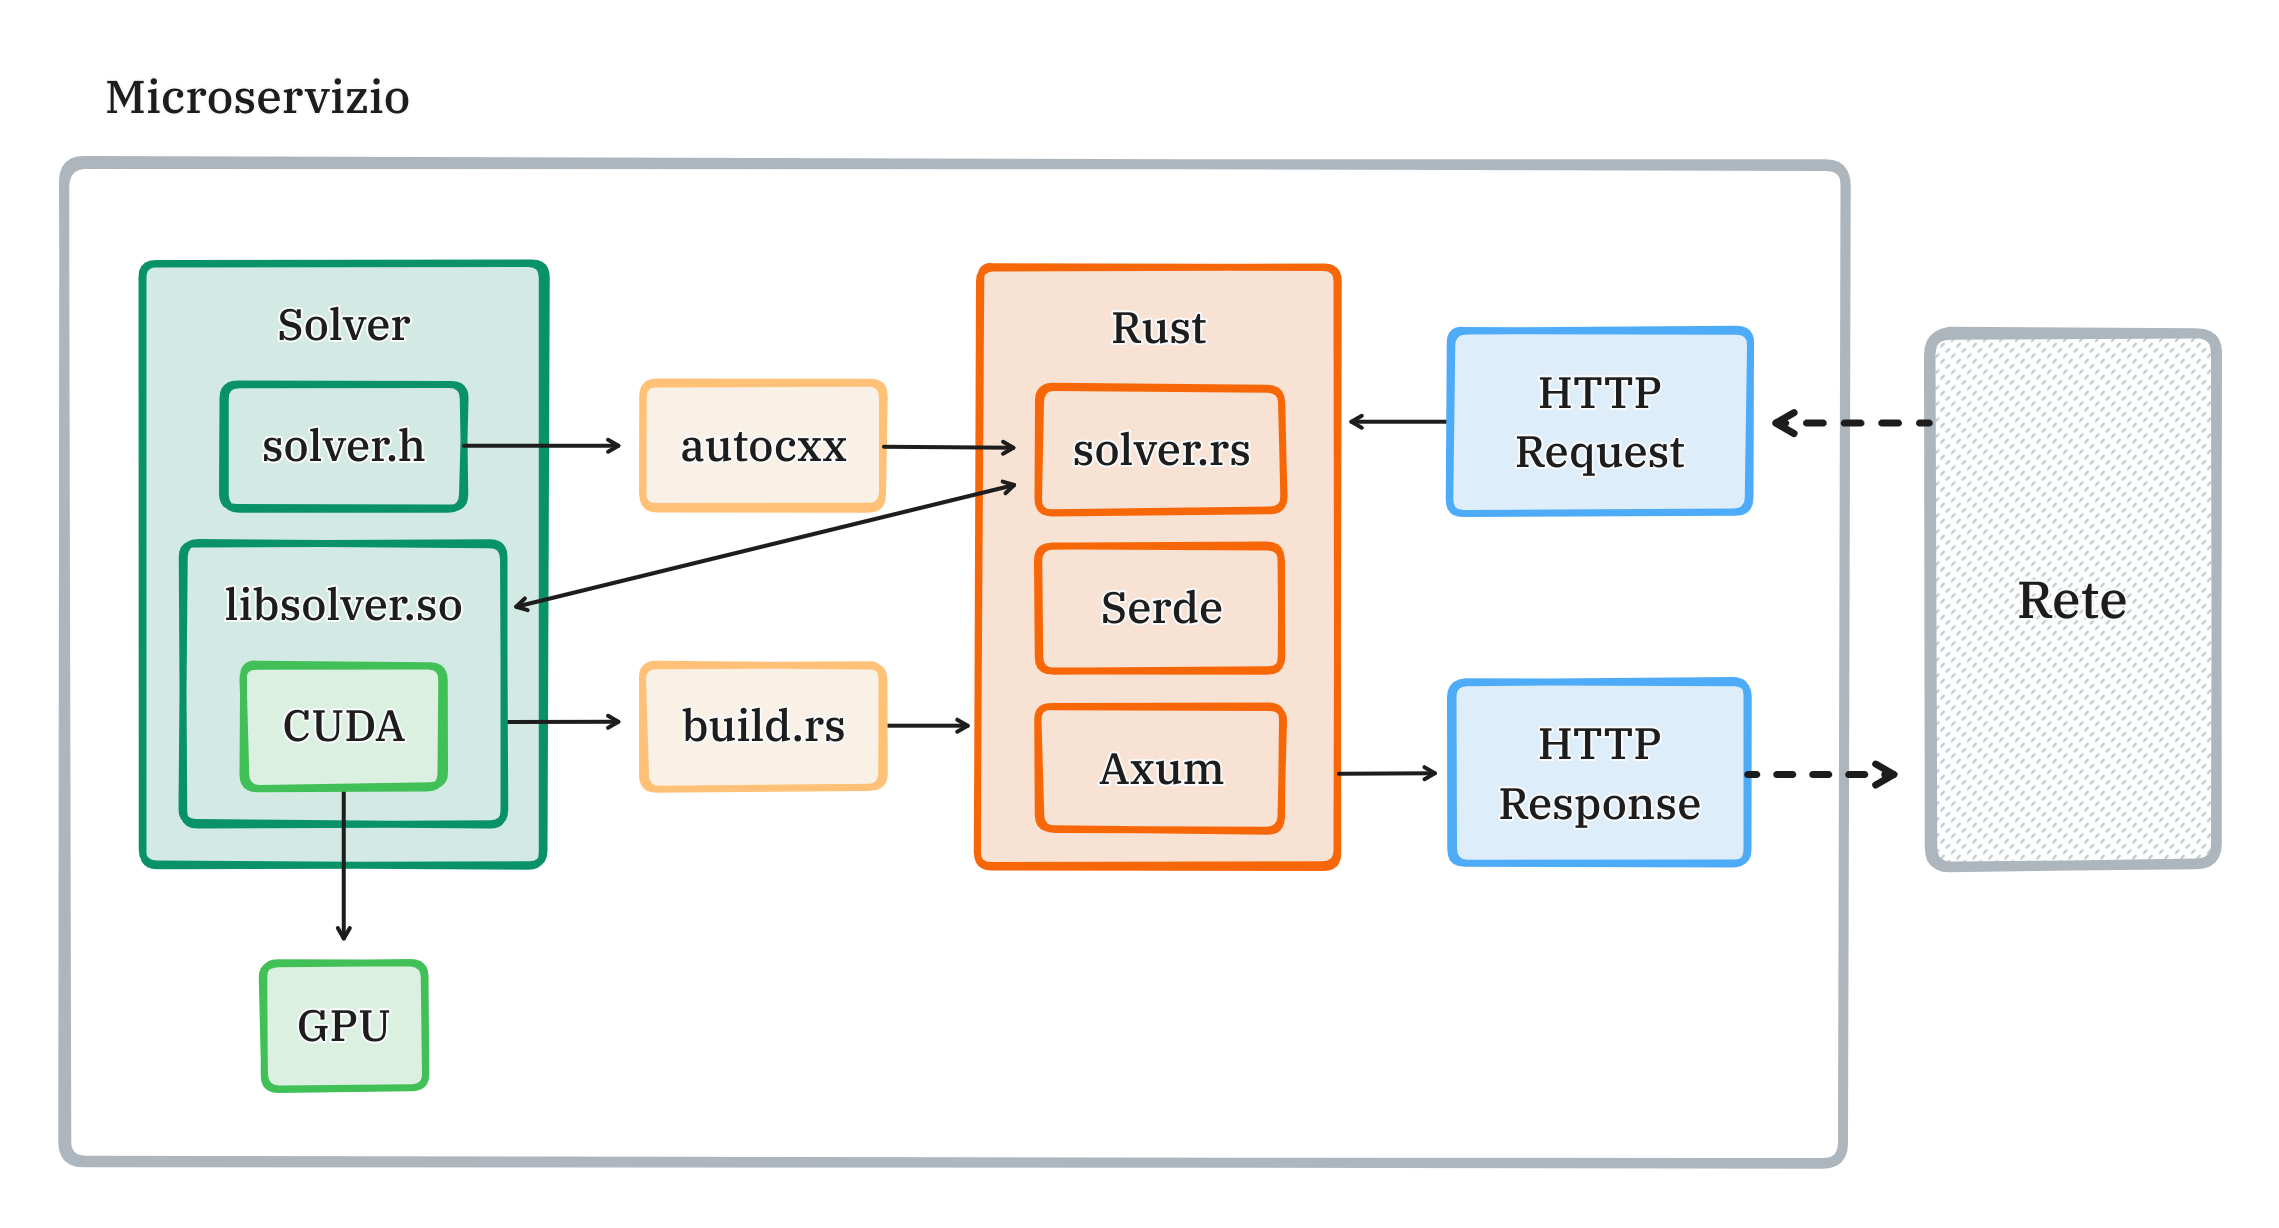
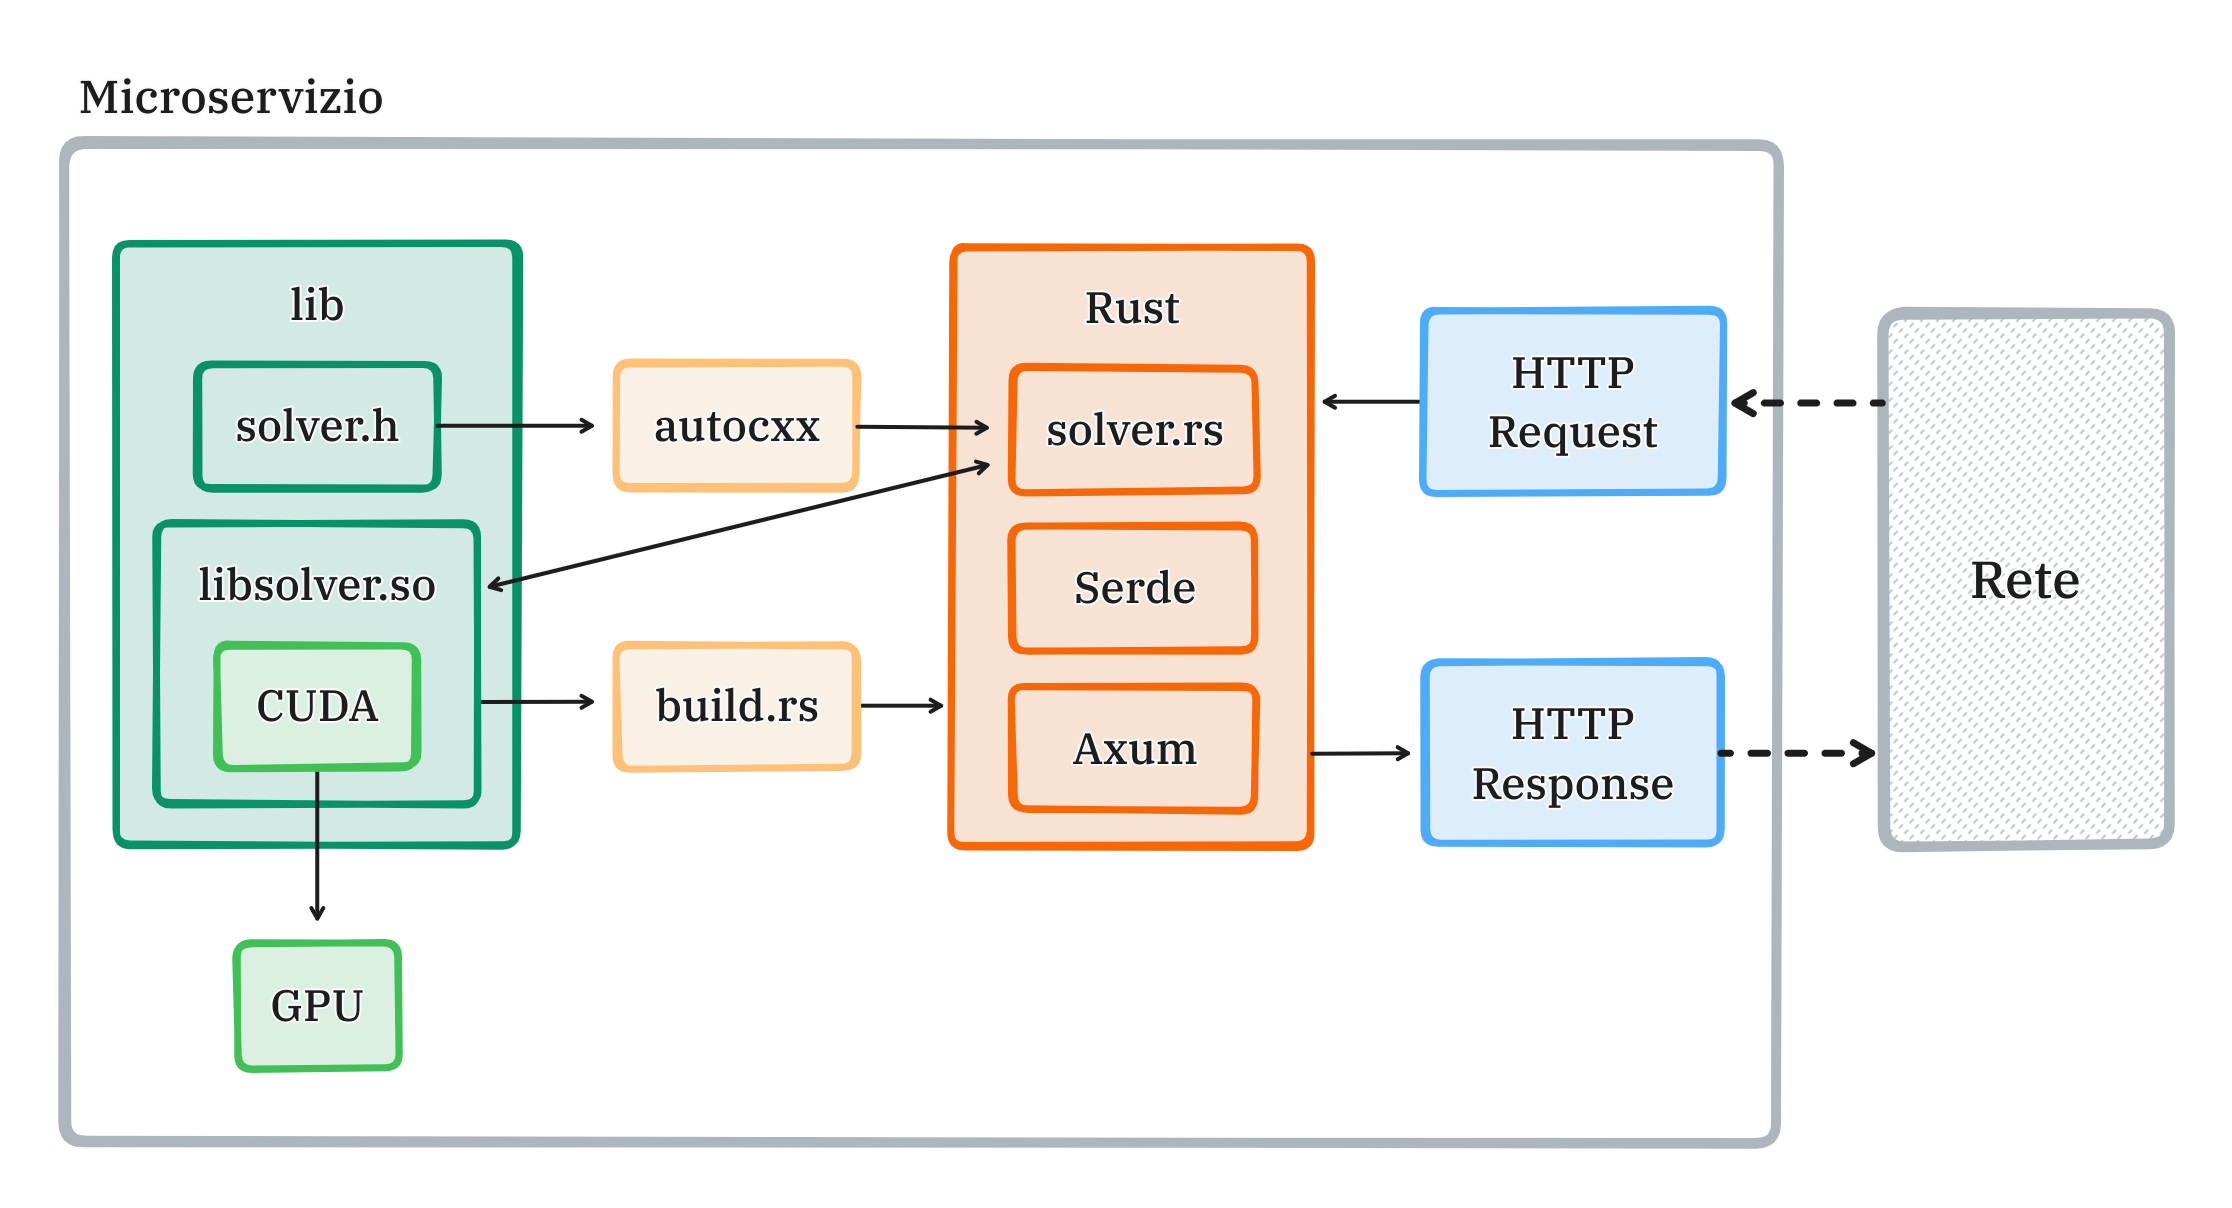
conclusioni

Changed region(s): [[0.0309, 0.0613, 0.9892, 0.9495]]

diff --git a/content/chapters/chapter6.tex b/content/chapters/chapter6.tex
@@ -1,13 +1,18 @@
 \chapter{Progetto}
 \label{sec:arch}
 
-Alla luce delle considerazioni esposte sui dati e sullo sviluppo, tenendo in conto che riscrivere l'intero microservizio in Rust con Vulkan non è un'operazione banale (e comunque non ci sarebbero stati enormi benefici in termini di prestazioni), si è scelto di adottare un approccio ibrido e quindi di mantenere i kernel in CUDA e usare Rust per la parte web del microservizio. Questo permette di mantenere le prestazioni e il know-how di CUDA e di poter sfruttare l'ecosistema e la development experience di Rust. Inoltre, l'uso di Rust per la parte web permette di avere un sistema più sicuro e performante su CPU rispetto alla controparte C++, e soprattutto più portabile e facilmente mantenibile, grazie al suo sistema di gestione delle dipendenze e alla sua capacità di compilare codice per diverse architetture.
+Alla luce delle considerazioni esposte sui dati e sullo sviluppo, tenendo in conto che riscrivere l'intero microservizio in Rust con Vulkan non è un'operazione banale (e comunque non ci sarebbero stati enormi benefici in termini di prestazioni), si è scelto di adottare un approccio ibrido e quindi di mantenere i kernel in CUDA e usare Rust per la parte web del microservizio. Questo permette di mantenere le prestazioni e il know-how di CUDA e di poter sfruttare l'ecosistema e la development experience di Rust. Inoltre, l'uso di Rust per la parte web permette di avere un sistema più sicuro rispetto al  C++, e soprattutto più portabile e facilmente mantenibile, grazie al suo sistema di gestione delle dipendenze e alla sua capacità di compilare codice per diverse architetture.
 
+\begin{figure}[ht]
+    \centering
+    \includegraphics[width=.94\linewidth]{images/chapter6/micro_arch.png}
+    \caption{Architettura del microservizio}
+    \label{fig:micro_arch}
+\end{figure}
 
 \section{Struttura del microservizio}
 
-
-Il progetto ha una struttura di questo tipo:
+Mentre in fig \ref{fig:micro_arch} è mostrato uno schema visivo del microservizio, che illustra tutti i componenti essenziali, in \ref{lis:tree} è presente la struttura delle cartelle del progetto. Il progetto è strutturato in modo da separare il codice Rust dalla shared library di CUDA, in modo da poter gestire facilmente le dipendenze e le configurazioni di compilazione. 
 
 \vspace{5mm}
 \begin{lstlisting}[language=bash, caption=Directory del progetto, label=lis:tree]
@@ -25,8 +30,9 @@ $ tree .
 \end{lstlisting}
 \vspace{5mm}
 
-Il file \textit{Cargo.toml} contiene le dipendenze del progetto e le configurazioni di compilazione. Il file \textit{build.rs} contiene il codice necessario per il linking della libreria dinamica \verb|libsolver.so| di CUDA e specifica l'header da cui recuperare i simboli per la compilazione con \textit{autocxx} \ref{lis:build_rs}. La cartella \textit{src} contiene il codice Rust del microservizio, in cui: il file \textit{main.rs} contiene il codice principale del microservizio, con le REST API, mentre \textit{solver.rs} contiene le funzioni Rust per interfacciarsi con la shared library di CUDA tramite FFI. Infine, \textit{models.rs} contiene le strutture dati necessarie per la computazione e per la comunicazione con i client.
+Il file \textit{Cargo.toml} contiene le dipendenze del progetto, mentre nel file \textit{build.rs} è presente il codice necessario per il linking della libreria dinamica \verb|libsolver.so| di CUDA specificando l'header da cui recuperare i simboli per la compilazione con \textit{autocxx}, come mostrato in \ref{lis:build_rs}. La cartella \textit{src} contiene il codice Rust del microservizio, in cui: nel file \textit{main.rs} è presente il codice principale con le REST API, \textit{solver.rs} contiene le funzioni Rust per interfacciarsi con la libreria dinamica di CUDA tramite FFI, e \textit{models.rs} le strutture dati necessarie per la computazione e il parsing dei dati \textit{JSON} inviati dal client.
 
+\newpage
 \vspace{5mm}
 \begin{lstlisting}[language=Rust, caption=build.rs, label=lis:build_rs]
 use std::env;
@@ -40,6 +46,7 @@ fn main() {
     // Define path to resolve #include relative position
     let include_path = manifest_dir.join("lib");
     let cuda_path = manifest_dir.join("/usr/local/cuda/include");
+    
     let mut b = autocxx_build::Builder
         ::new("src/solver.rs", [&include_path, &cuda_path])
         .auto_allowlist(true)
@@ -55,18 +62,10 @@ fn main() {
 \end{lstlisting}
 \vspace{5mm}
 
-\begin{figure}[ht]
-    \centering
-    \includegraphics[width=1\linewidth]{images/chapter6/micro_arch.png}
-    \caption{Architettura del microservizio}
-    \label{fig:micro_arch}
-\end{figure}
 
+Per integrare Rust con la shared library di CUDA si è scelto di utilizzare al libreria \textit{autocxx} che, partendo dai file di header CUDA, genera tramite macro il modulo \verb|ffi| Rust necessario per richiamare la libreria. Questo permette di avere codice Rust che è in grado di chiamare le funzioni della libreria CUDA e di gestire i puntatori e le strutture dati necessarie per la computazione. Inoltre, \textit{autocxx} permette di gestire automaticamente la conversione dei tipi di dato tra Rust e C++, permettendo di scrivere codice Rust più pulito e mantenibile.
 
-Per integrare Rust con la shared library di CUDA si è scelto di utilizzare al libreria \textit{autocxx} che, partendo dai file di header genera tramite marco il codice Rust necessario per interfacciarsi con la libreria. Questo permette di avere un codice Rust che è in grado di chiamare le funzioni della shared library di CUDA e di gestire i puntatori e le strutture dati necessarie per la computazione. Inoltre, \textit{autocxx} permette di gestire automaticamente la conversione dei tipi di dato tra Rust e C++, permettendo di scrivere codice Rust che è molto simile a quello C++.
-
-
-
+\newpage
 \vspace{5mm}
 \begin{lstlisting}[language=Rust, caption=Macro autocxx e uso della FFI, label=lis:generic_glsl]
 // src/solver.rs
@@ -101,7 +100,7 @@ pub fn solve_matrix(params: Matrix<f64>) -> Solutions<f64> {
     ...
     unsafe { let _ = ffi::solve_matrix(params.qubo_matrix, ...); }
     ...
- }
+}
 
 // lib/solver.h
 
@@ -111,14 +110,130 @@ int solve_matrix(...);
 \end{lstlisting}
 \vspace{5mm}
 
+% spigare tokio e axum
 
+Per quanto riguarda la parte web, si è scelto di utilizzare il framework \textit{Axum} per la gestione delle REST API, in quanto è un framework molto performante e leggero, che sfrutta le feature \textit{async/await} di Rust. Inoltre, \textit{Axum} permette di gestire facilmente le richieste HTTP e di serializzare e deserializzare i dati in formato \textit{JSON} tramite l'integrazione automatica con la libreria \textit{Serde}. Gestire le richieste HTTP in modo asincrono e parallelo, permette di avere un numero maggiore di richieste al server senza che vi siano rallentamenti nell'esecuzione. In caso di configurazioni con più GPU questo può facilitare la gestione delle risorse in modo parallelo, permettendo di sfruttare al meglio le risorse disponibili e diminuire i tempi di risposta per il client. Questo approccio è simili a quanto avverrebbe usando thread e processi, ma è trasparente allo sviluppatore che può scrivere codice parallelo come fosse sequenziale, delegando al runtime la gestione dei task in modo efficiente.
 
-% spigare tokio
-% spiegare axum
 % spiegare rest api con json
 
+Tramite l'uso di macro Rust e le funzioni di \textit{Axum} si può scrivere un microservizio web con pochissimo codice, come mostrato in \ref{lis:axum}. Le strutture dati definite in \textit{models.rs} vengono usate per serializzare e deserializzare i dati in formato \textit{JSON} in modo automatico, permettendo di gestire facilmente i dati in input e in output delle REST API. È importante notare che, data la mole di dati e parametri che vengono solitamente usati per la computazione di matrici QUBO (con payload nell'ordine della centinaia di MB), è fondamentale gestire il parsing in modo efficiente e altamente prestazionale. 
+Inoltre, \textit{Axum} permette di gestire facilmente i middleware, permettendo di aggiungere funzionalità come il logging, la gestione degli errori e la gestione delle autorizzazioni in modo semplice e modulare.
 
-\section{Piani futuri}
+\vspace{5mm}
+\begin{lstlisting}[language=Rust, caption=Inizializzazione Axum, label=lis:axum]
+#[tokio::main]
+async fn main() -> Result<(), anyhow::Error> {
+    let address = "127.0.0.1:3000".parse().unwrap();
+    println!("=> Running on http://{address}");
+
+    axum::Server::bind(&address)
+        .serve(app().into_make_service())
+        .await
+        .unwrap();
+
+    Ok(())
+}
+
+fn app() -> Router {
+    Router::new()
+        .route("/health-check", get(health_check))
+        .route("/device-count", get(get_device_count))
+        .route("/solve-matrix", post(solve_matrix))
+        .layer(axum::middleware::from_fn(logging))
+        .layer(axum::middleware::from_fn(authentication))
+
+}
+\end{lstlisting}
+\vspace{5mm}
+
+Le REST API sono definite come funzioni \textit{async}, macchine a stati in cui l'esecuzione è delegata al runtime asincrono \textit{Tokio}. I task vengono ripartiti in più thread usando il modello del \textit{cooperative scheduling}, il risultato è ceh i task collaborano in modo da gestire le richieste in modo efficiente.
+
+\vspace{5mm}
+\begin{lstlisting}[language=Rust, caption=Web API, label=lis:api]
+async fn health_check() 
+        -> Result<Json<serde_json::Value>, AppError> {
+    let msg = solver::health_check();
+    let response = serde_json::json!(msg);
+
+    Ok(Json(response))
+}
+
+async fn get_device_count() 
+        -> Result<Json<serde_json::Value>, AppError> {
+    let count = solver::get_device_count();
+    let response = serde_json::json!({ "devices": count });
+
+    Ok(Json(response))
+}
+
+async fn solve_matrix(Json(payload): Json<Matrix<f64>>) 
+        -> Result<Json<Solutions<f64>>, AppError> {
+    let solutions = solver::solve_matrix(payload);
+
+    Ok(Json(solutions))
+}
+\end{lstlisting}
+\vspace{5mm}
+
+
+Un esempio di richiesta API è mostrato in \ref{lis:api_req}, in cui si invia una matrice QUBO in formato \textit{JSON} al microservizio, che la computa e restituisce le soluzioni in formato \textit{JSON}. Questo permette di avere un'interfaccia semplice e standardizzata per l'interazione con il microservizio, permettendo di integrarlo facilmente con altri servizi e applicazioni.
+
+\newpage
+\vspace{5mm}
+\begin{lstlisting}[language=bash, caption=Esempio richiesta API, label=lis:api_req]
+$ curl -X POST http://localhost:3000/solve-matrix \
+    -H "Content-Type: application/json" \
+    -d '{"qubo_matrix": [[1, 0, 0, 0, 1, 0, 0, 0, 1]], "N": 3, 
+         "solutionsNumber": 3 }'
+
+{
+    "quboSolutions": [
+        {
+            "quboEnergy": 0.0,
+            "quboSolution": [1, 0, 1],,
+            "solutionTime": 0.0
+        },
+        ...
+    ]
+}
+\end{lstlisting}
+\vspace{5mm}
+
+Per la verifica della correttezza delle API e dell'integrazione con CUDA sono stati scritti degli \textit{unit test} usando \textit{axum-test-helper} e \textit{cargo test} per l'esecuzione. Un esempio di test è mostrato in \ref{lis:health_check}, in cui si testa la funzione \textit{health\_check} per verificare che restituisca il messaggio corretto e che quindi l'integrazione con CUDA sia eseguita correttamente.
+
+\vspace{5mm}
+\begin{lstlisting}[language=rust, caption=Health check test, label=lis:health_check]
+#[cfg(test)]
+mod tests {
+    #[tokio::test]
+    async fn test_api_health_check() {
+        let client = TestClient::new(app());
+        let res = client.get("/health-check").send().await;
+
+        assert_eq!(res.status(), StatusCode::OK);
+        assert_eq!(
+            res.json::<String>().await,
+            serde_json::json!("Hello from MegaQUBO!")
+        );
+    }
+    ...
+}
+\end{lstlisting}
+\vspace{5mm}
+
+
+
+La compilazione e il deployment sono gestiti tramite \textit{cargo} e \textit{docker}, permettendo di avere un sistema di build e deploy automatizzato e riproducibile. L'uso della libreria dinamica, in questo caso, è stato voluto per permettere di aggiornare la libreria CUDA senza dover ricompilare l'intero microservizio e aumentare il riutilizzo del codice. È comunque possibile anche usare una libreria statica, per avere un sistema più portabile e indipendente dalle librerie esterne, integrando la compilazione con \textit{cargo} e impostando conseguentemente il linking nell'eseguibile finale in \textit{build.rs}. Mi sento di consigliare questo approccio per avere un sistema più robusto e mantenibile, in quanto permette di avere un controllo maggiore sulle dipendenze e di evitare problemi di compatibilità e versioning delle librerie.
+
+\section{Sviluppi futuri}
+
 
 % sviluppo futuri con grpc di protobuf
-% aggiunta test e CI ???
+
+Possibili migliorie per rendere il microservizio ancora più efficiente potrebbe essere quello di usate \textit{gRPC} al posto di REST API, in quanto permette di avere una comunicazione più efficiente e performante, grazie al protocollo binario e alla gestione automatica della serializzazione e deserializzazione dei dati. Inoltre, \textit{gRPC} permette di definire i servizi e i messaggi tramite \textit{Protocol Buffers}, che permette di avere una definizione standardizzata e facilmente mantenibile dei dati e delle API. Questo permetterebbe di avere un sistema più scalabile e performante, in grado di gestire un numero maggiore di richieste e di risorse in modo efficiente. Questo approccio permette di richiamare le API da altre macchine in modo più facile, integrando il modo più solido il microservizio nell'architettura software aziendale.
+
+% multi gpu
+
+Data l'architettura modulare del microservizio, è possibile estendere facilmente le funzionalità aggiungendo nuove API e nuove funzionalità, come la gestione di più GPU, la gestione di più matrici QUBO in parallelo, o la possibilità di integrare le API Vulkan per sostituire le funzioni CUDA, oppure combinarle e usarle in modo intercambiabile in base alle esigenze. Sarebbe inoltre possibile avere un sistema con multi-GPU con hardware di vendor differenti ed usare Vulkan per GPU AMD e CUDA per GPU NVIDIA, parallelamente.
+
+

diff --git a/content/chapters/chapter7.tex b/content/chapters/chapter7.tex
@@ -1,7 +1,9 @@
 \chapter{Conclusioni}
 \label{sec:conclusion}
 
-...
-% compilazione rust direttamente in spirv
-% CUDA non può essere rimpiazzato facilmente
-% per uscire dal vendor lock-in di NVIDIA, è necessario usare Vulkan
+L'obiettivo di questo lavoro di tesi era la comparazione delle performance di due sistemi per il GPGPU computing, CUDA e Vulkan. Come dimostrato dai dati e dall'esperienza di sviluppo, per quanto CUDA è ancora la prima scelta per sistemi di computazione ibrida per GPGPU, Vulkan è un'alternativa valida, in molti casi preferibile e per sistemi che non supportano CUDA, l'unica scelta possibile. Dato che le performance di Vulkan sono molto vicine a quelle di CUDA, la scelta tra i due dipende da altri fattori, come la complessità del codice, la disponibilità di librerie e la facilità di sviluppo. Inoltre, Vulkan è una tecnologia più recente e in rapida evoluzione, quindi è possibile che in futuro diventi la scelta preferita per il GPGPU computing. 
+
+La scelta di usare Rust in combinazione con Vulkan si è rivelata molto positiva. Rust è un linguaggio di programmazione moderno e sicuro, che permette di scrivere codice efficiente e mantenibile, senza rinunciare alle performance. Il vasto ecosistema di librerie e documentazione che si è sviluppato attorno a Rust è un ulteriore vantaggio per gli sviluppatori, soprattutto per quanto riguarda il lo sviluppo web. Grazie alla FFI di Rust anche l'integrazione con CUDA è stata agevole e, al netto della prima fase di configurazione, per il building e linking delle librerie CUDA, non ci sono stati problemi. Grazie alla politica \textit{zero cost abstraction} di Rust, l'integrazione con CUDA è stata molto efficiente senza comportare overhead al programma.
+
+In un futuro lavoro, sarebbe interessante esplorare le performance di Vulkan su sistemi con più GPU, per vedere se Vulkan è in grado di sfruttare al meglio le potenzialità di sistemi con più schede grafiche. L'idea di poter anche usare Vulkan in combinazione con CUDA per sfruttare al meglio le potenzialità di entrambe le tecnologie potrebbe portare a risultati molto interessanti.
+L'ostacolo maggiore che ad oggi impedisce di sfruttare al meglio le potenzialità di Vulkan è difficoltà nell'inizializzare le risorse Vulkan e scrivere codice mantenibile. Sarebbe interessante sviluppare librerie e framework per semplificare lo sviluppo di applicazioni GPGPU con Vulkan, in modo da rendere questa tecnologia più accessibile agli sviluppatori. L'idea di poter compilare Rust direttamente in SPIR-V, senza passare per il GLSL, ed eseguire il codice direttamente su Vulkan, potrebbe essere la killer feature che renderebbe Vulkan una valida alternativa a CUDA per il GPGPU computing.
